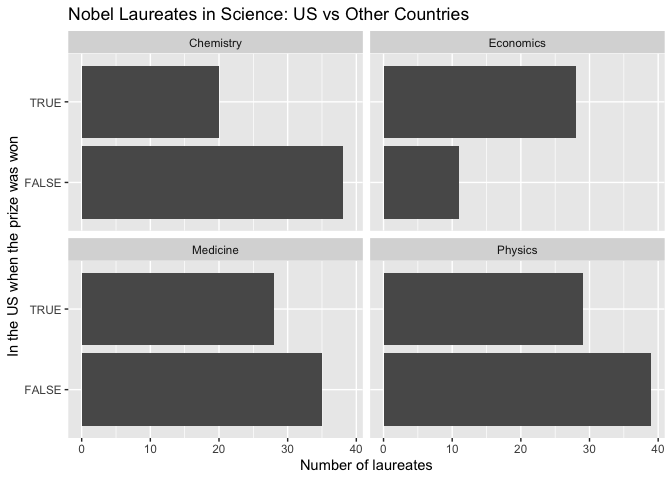
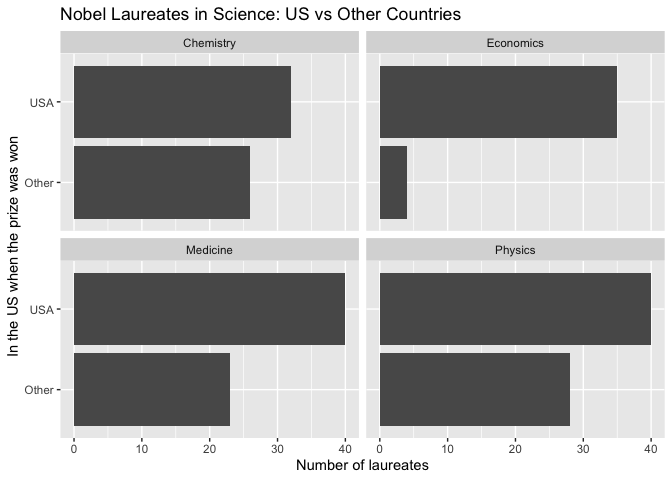
Lab 3 is done!

diff --git a/lab-03.md b/lab-03.md
@@ -97,8 +97,10 @@ nrow(nobel_living)
 
 ### Exercise 3
 
-Most laureates who were foreign-born were not actually in the US. This
-is only true for economists.
+Most nobel prizes were won by individuals in the USA. The Buzzfeed
+headline is partially supported by this data. This graph does not show
+us where these individuals were born, but it does prove that most living
+Nobel laureates in the sciences are based in the US.
 
 ``` r
 nobel_living <- nobel_living %>% 
@@ -111,7 +113,7 @@ nobel_living_science <- nobel_living %>%
 library(dplyr)
 library(ggplot2)
 
-ggplot(nobel_living_science, aes(x = born_country == "USA")) +
+ggplot(nobel_living_science, aes(x = country_us)) +
   geom_bar() +
   facet_wrap(~ category) + 
   coord_flip() +
@@ -119,19 +121,81 @@ ggplot(nobel_living_science, aes(x = born_country == "USA")) +
     x = "In the US when the prize was won",
     y = "Number of laureates",
     title = "Nobel Laureates in Science: US vs Other Countries"
-  )
+  ) +
+  scale_x_discrete(labels = c("FALSE" = "Other", "TRUE" = "US"))
 ```
 
 ![](lab-03_files/figure-gfm/US-winners-1.png)<!-- -->
 
 ### Exercise 4
 
+105 winners were born in the US.
+
+``` r
+born_country_us <- nobel_living %>% 
+  mutate(
+    born_country_us = if_else(born_country == "USA", "USA", "Other")
+  )
+```
+
 …
 
 ### Exercise 5
 
-…
+This diagram doesn’t appear to support Buzzfeed’s claim. Most people who
+won a nobel peace prize in the US were born in the USA.
+
+``` r
+nobel_living <- nobel_living %>% 
+  mutate(
+    country_us = if_else(country == "USA", "USA", "Other"
+  ))
+nobel_living_science <- nobel_living %>% 
+  filter(category %in% c("Physics", "Medicine", "Chemistry", "Economics"))
+
+library(dplyr)
+library(ggplot2)
+
+ggplot(nobel_living_science, aes(x = country_us, fill = born_country_us)) +
+  geom_bar() +
+  facet_grid(~category) + 
+  coord_flip() +
+  labs(
+    x = "Country they were in when they won",
+    y = "Number of laureates"
+    
+  )
+```
+
+    ## Don't know how to automatically pick scale for object of type
+    ## <tbl_df/tbl/data.frame>. Defaulting to continuous.
+
+![](lab-03_files/figure-gfm/add-variable-exercise5-1.png)<!-- -->
 
 ### Exercise 6
+
+Germany is the most common country.
+
+``` r
+nobel_living %>% 
+  filter(country_us == "USA", born_country != "USA") %>% 
+  count(born_country) %>%
+  arrange(desc(n))
+```
+
+    ## # A tibble: 21 × 2
+    ##    born_country       n
+    ##    <chr>          <int>
+    ##  1 Germany            7
+    ##  2 United Kingdom     7
+    ##  3 China              5
+    ##  4 Canada             4
+    ##  5 Japan              3
+    ##  6 Australia          2
+    ##  7 Israel             2
+    ##  8 Norway             2
+    ##  9 Austria            1
+    ## 10 Finland            1
+    ## # ℹ 11 more rows
 
 …
